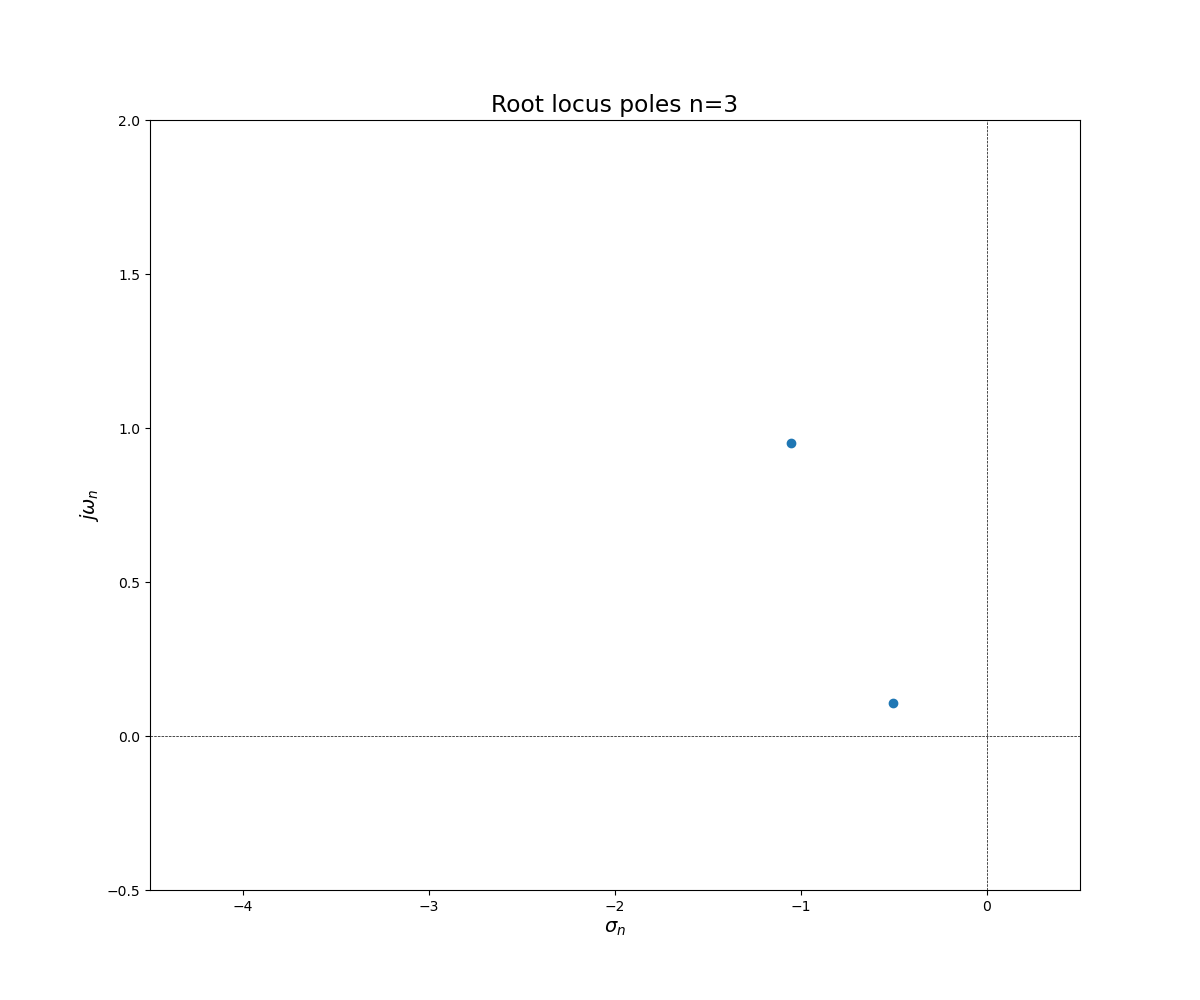
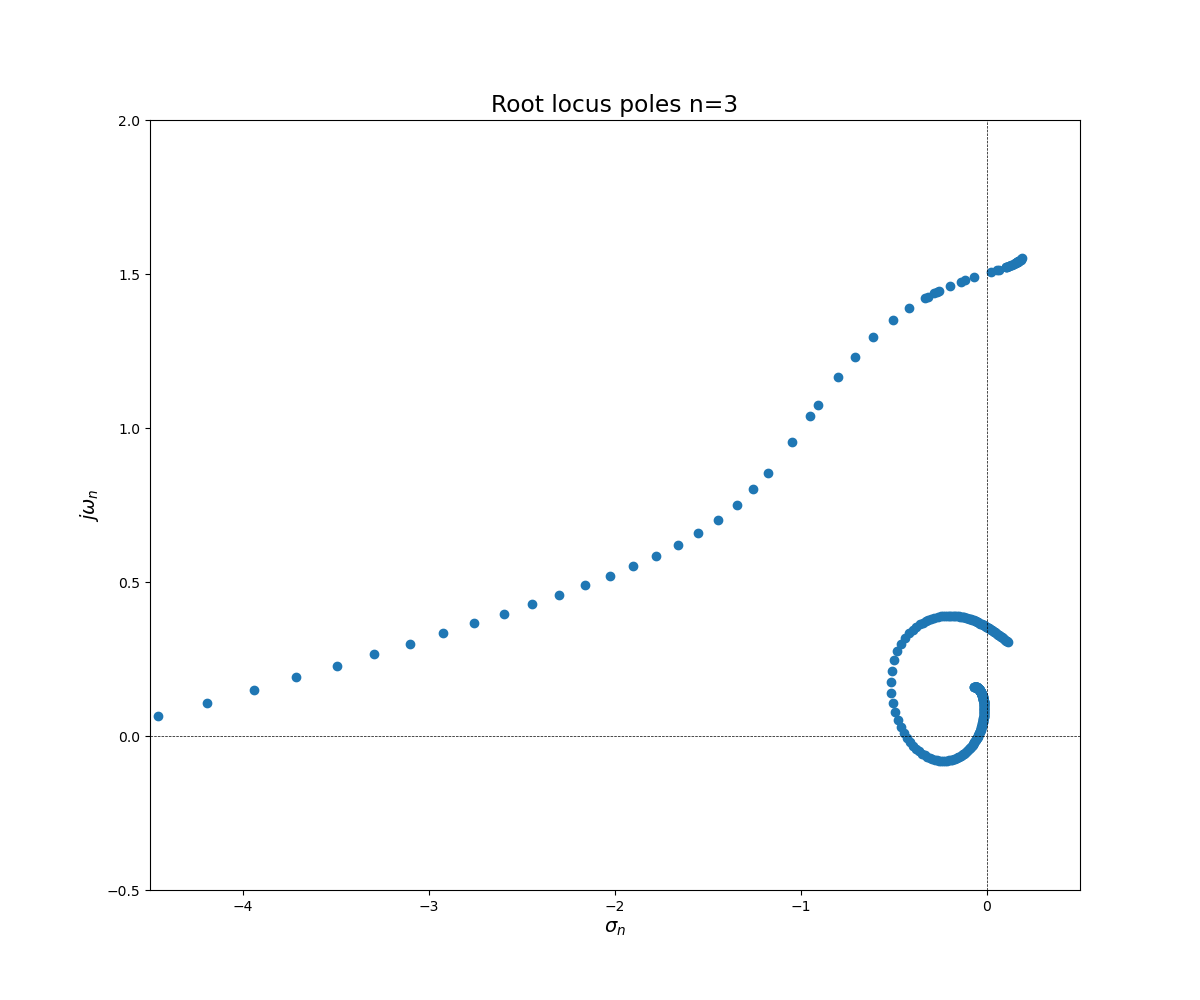
update integration routine for the integration of radial fucntion

diff --git a/Spakozvski_model_II/root_3_locus.py b/Spakozvski_model_II/root_3_locus.py
@@ -29,7 +29,7 @@ isExist = os.path.exists(path)
 if not isExist:
    os.makedirs(path)
 DELTAX = np.linspace(0.01, 1, 250)
-poles_fneri = {}
+poles_3 = {}
  
 for hh in DELTAX:   
     #%%INPUT DATA
@@ -92,41 +92,15 @@ for hh in DELTAX:
     domain = [-4.5,0.5,-0.5,2]
     grid = [1,1]
     n=np.arange(3,4)
-    # plt.figure(figsize=format_fig)
-    # for nn in n:
     poles = Shot_Gun(rotor_stator,domain, grid, n=3)
-    poles_fneri[hh] = poles
-        # plt.plot(poles.real,-poles.imag,'o', label='n '+str(nn))
-    # real_axis_x = np.linspace(domain[0],domain[1],100)
-    # real_axis_y = np.zeros(len(real_axis_x))   
-    # imag_axis_y = np.linspace(domain[2],domain[3],100)
-    # imag_axis_x = np.zeros(len(imag_axis_y))
-    # plt.plot(real_axis_x,real_axis_y,'--k', linewidth=0.5)
-    # plt.plot(imag_axis_x,imag_axis_y,'--k', linewidth = 0.5)
-    # plt.xlim([domain[0],domain[1]])
-    # plt.ylim([domain[2],domain[3]])
-    # plt.legend()
-    # plt.xlabel(r'$\sigma_{n}$')
-    # plt.ylabel(r'$j \omega_{n}$')
-    # plt.title('Root locus')
-    # plt.savefig(path+'/poles_rotor_stator_deltax_'+str(hh)+'.png')
+    poles_3[hh] = poles #the hh index of dictionary contains the mode3 poles
+        
 
-
-#compare the errors of the poler on the rotor stator matrix
-# err_fneri = {} #dictionary for the poles found with shot-gun method
-# for nn in n:
-#     dum1 = 0
-#     for kk in range(0,len(poles_fneri[nn])-1):
-#         dum1 = dum1 + np.abs(rotor_stator(poles_fneri[nn][kk], nn))
-#     err_fneri[nn] = dum1/(len(poles_fneri[nn])+1) #1 is needed in order to avoid divide by zero
-
-# #print the errors of the found poles
-# print(err_fneri)
 
 
 poles_evolve = np.array([], dtype=complex)
-for k in poles_fneri.keys():
-    poles_evolve = np.append(poles_evolve, poles_fneri[k])
+for k in poles_3.keys():
+    poles_evolve = np.append(poles_evolve, poles_3[k])
 plt.figure(figsize=(12,10))
 plt.scatter(poles_evolve.real, -poles_evolve.imag )
 real_axis_x = np.linspace(domain[0],domain[1],100)
@@ -142,22 +116,34 @@ plt.ylabel(r'$j \omega_{n}$')
 plt.title('Root locus poles n=3')
 plt.savefig(path+'/pole_3_locus.png')
 
-#%%
-theta = np.linspace(0,2*np.pi,1000)
-y1 = np.sin(theta)
-y2 = np.sin(2*theta)
-y3 = np.sin(3*theta)
-plt.figure(figsize=(10,5))
-plt.plot(theta,y1,linewidth=0.65,label='n=1')
-plt.plot(theta,y2,linewidth=0.65,label='n=2')
-plt.plot(theta,y3,linewidth=0.65,label='n=3')
-plt.legend()
-plt.xlabel(r'$\theta$')
-plt.ylabel(r'$\delta p$')
-plt.xticks([0,2*np.pi])
-plt.yticks([])
+X =np.array([])
+growth_rate = np.array([])
+rotation_rate = np.array([])
 
+fig, ax = plt.subplots(1, figsize=(10,8))
+for s in poles_3.keys():
+    multiplicity = len(poles_3[s])
+    print(multiplicity)
+    deltaX = np.ones(multiplicity)*s
+    X = np.append(X, deltaX)
+    pole_plot = poles_3[s]
+    growth_rate = np.append(growth_rate, pole_plot.real)
+    rotation_rate = np.append(rotation_rate, -pole_plot.imag)
+    ax.plot(deltaX, -pole_plot.imag, 'r.', label='Rotation Rate')
+    ax.plot(deltaX, pole_plot.real, 'b.', label='Growth Rate')
+ax.set_xlabel(r'$\Delta x$')
+ax.set_ylabel('Growth rate / Rotation rate')
+ax.set_xlim([0,1])
+ax.set_ylim([-2,2])
+# fig.legend()
 
-
-
-
+fig, ax = plt.subplots(1, figsize=(10,8))
+ax.plot(X, rotation_rate, 'ro', label='Rotation Rate')
+ax.plot(X, growth_rate, 'bo', label='Growth Rate')
+ax.plot(real_axis_x,real_axis_y,'--k', linewidth=0.8)
+ax.set_xlabel(r'$\Delta x$')
+ax.set_ylabel('Growth rate / Rotation rate')
+ax.set_xlim([0,1])
+ax.set_ylim([-2,2])
+fig.legend()
+plt.savefig(path+'/pole_3_growth_rotation.png')

diff --git a/Spakozvski_model_II/functions.py b/Spakozvski_model_II/functions.py
@@ -94,6 +94,7 @@ def Rad_fun(r,r0,n,s,Q,GAMMA):
         raise Exception("Sorry, the n=0 mode is still not implemented. Use n!=0")
     N = 1000
     x = np.linspace(r0,r,N+1)
+    dx = x[1]-x[0]
     def fp(x):
         return np.exp(-1j*n*GAMMA/Q*np.log(x) - s/2/Q*x**2)*x**(+n+1)
     def fn(x):
@@ -101,8 +102,8 @@ def Rad_fun(r,r0,n,s,Q,GAMMA):
     
     fn = fn(x) #positive integrand
     fp = fp(x) #negative integrand
-    Fp = np.sum(fp[0:len(x)-1]+fp[1:len(x)])/2*np.sum((x[1:len(x)]-x[0:len(x)-1])) #positive intgrand integrated
-    Fn = np.sum(fn[0:len(x)-1]+fn[1:len(x)])/2*np.sum((x[1:len(x)]-x[0:len(x)-1])) #positive intgrand integrated
+    Fp = np.sum(fp[0:len(x)-1]+fp[1:len(x)])/2*dx #positive intgrand integrated
+    Fn = np.sum(fn[0:len(x)-1]+fn[1:len(x)])/2*dx #positive intgrand integrated
     # dfp = (-1j*n*GAMMA/Q/r-r/Q*s)*fp[N] + (+n+1)*r**(+n)*np.exp(-1j*n*GAMMA/Q*np.log(r)-s/2/Q*r**2) #positive integrand derivative
     # dfn = (-1j*n*GAMMA/Q/r-r/Q*s)*fn[N] + (-n+1)*r**(-n)*np.exp(-1j*n*GAMMA/Q*np.log(r)-s/2/Q*r**2) #negative integrand derivative  
     Rn = r**n*Fn - r**(-n)*Fp

diff --git a/Spakozvski_model_II/main_debug.py b/Spakozvski_model_II/main_debug.py
@@ -199,14 +199,14 @@ plt.savefig(path+'/poles_rotor.png')
 #%%plot of radial functions
 from functions import *
 
-r = np.linspace(1,2.5,1000)
+r = np.linspace(1,1.5,1000)
 r0 = r[0]
 Rn = np.zeros((len(r)),dtype=complex)
 Rn_prime = np.zeros((len(r)),dtype=complex)
 Rn_second_ = np.zeros((len(r)),dtype=complex)
 #proof value
 n = 3
-s = 20j
+s = 10j
 Q = 1
 GAMMA = 1
 for i in range(0,len(r)):
@@ -226,6 +226,14 @@ axes[1].plot(r, Rn_prime.imag)
 axes[2].plot(r, Rn_second_.real)
 axes[2].plot(r, Rn_second_.imag)
 fig.legend()
+
+fig, axes = plt.subplots(2,1, figsize=(7,10))
+fig.suptitle('Radial functions, s='+str(s.real)+'+'+str(s.imag)+'j')
+axes[0].set_ylabel(r'$Re[R_n]$')
+axes[1].set_ylabel(r'$Im[R_n]$')
+axes[1].set_xlabel(r'$r $')
+axes[0].plot(r, Rn.real)
+axes[1].plot(r, Rn.imag)
 
 
 #first derivative by finite difference

diff --git a/Spakozvski_model_II/jet_wake_perturbations.py b/Spakozvski_model_II/jet_wake_perturbations.py
@@ -84,7 +84,7 @@ for k in range(0,len(radii)):
 fig.legend()
 
 #%% VARIATIONS WITH RADIUS
-radii = np.linspace(R2,1.25,500)
+radii = np.linspace(R2,1.8,500)
 fig, axes = plt.subplots(3,1, figsize=format_fig)
 axes[0].set_ylabel(r'$\delta w_{r}$')
 axes[1].set_ylabel(r'$\delta w_{\theta}$')
